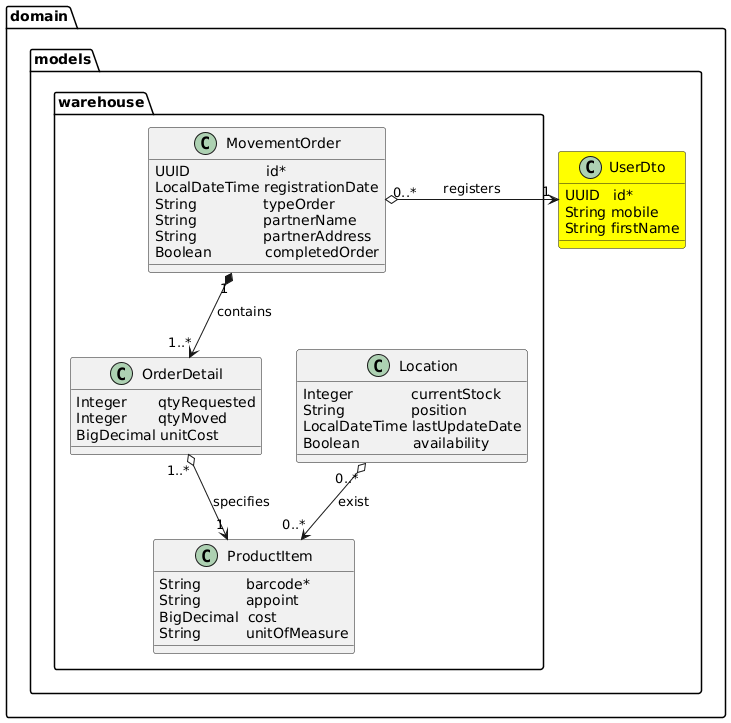
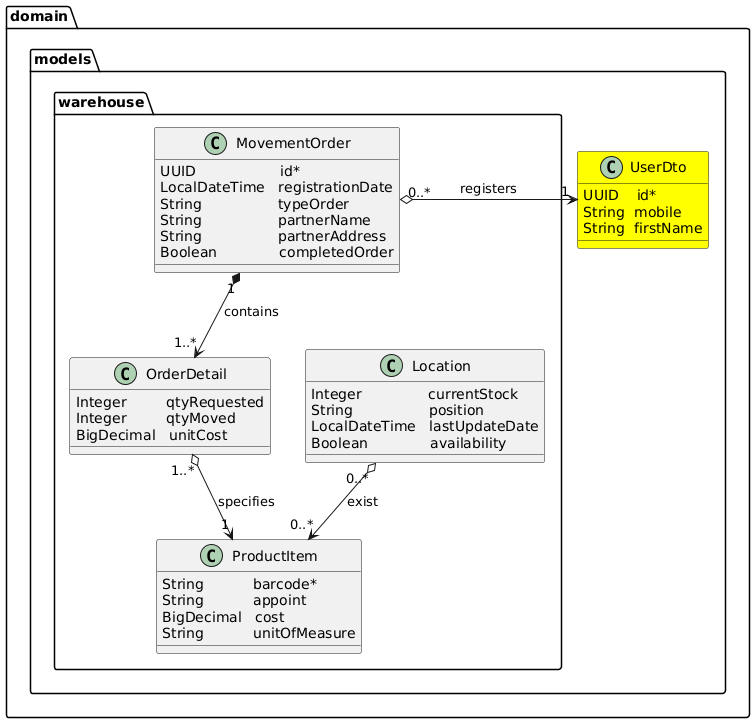
correction to the warehouse model #1246

diff --git a/src/main/java/es/upm/miw/apaw/domain/services/warehouse/MovementOrderService.java b/src/main/java/es/upm/miw/apaw/domain/services/warehouse/MovementOrderService.java
@@ -23,15 +23,13 @@ public class MovementOrderService {
     }
 
     public MovementOrder create(MovementOrder movementOrder) {
-        // Verificar usuario en microservicio externo
-        UUID userId = movementOrder.getUser().getId();
-        this.userRestClient.readById(userId); // validación indirecta (mockeada en tests)
 
-        // Setear datos adicionales
+        UUID userId = movementOrder.getUser().getId();
+        this.userRestClient.readById(userId);
+
         movementOrder.setId(UUID.randomUUID());
         movementOrder.setRegistrationDate(LocalDateTime.now());
 
-        // Guardar en Mongo
         return this.movementOrderPersistence.create(movementOrder);
     }
 

diff --git a/src/test/java/es/upm/miw/apaw/adapters/mongodb/warehouse/daos/MovementOrderRepositoryIT.java b/src/test/java/es/upm/miw/apaw/adapters/mongodb/warehouse/daos/MovementOrderRepositoryIT.java
@@ -1,13 +1,11 @@
 package es.upm.miw.apaw.adapters.mongodb.warehouse.daos;
 
-import es.upm.miw.apaw.adapters.mongodb.warehouse.entities.MovementOrderEntity;
 import es.upm.miw.apaw.adapters.mongodb.warehouse.entities.OrderDetailEntity;
 import org.junit.jupiter.api.Test;
 import org.springframework.beans.factory.annotation.Autowired;
 import org.springframework.boot.test.context.SpringBootTest;
 import org.springframework.test.context.ActiveProfiles;
 
-import java.util.List;
 import java.util.UUID;
 
 import static org.assertj.core.api.Assertions.assertThat;

diff --git a/src/main/java/es/upm/miw/apaw/domain/models/warehouse/ProductItem.java b/src/main/java/es/upm/miw/apaw/domain/models/warehouse/ProductItem.java
@@ -5,7 +5,6 @@ import jakarta.validation.constraints.NotNull;
 import lombok.*;
 
 import java.math.BigDecimal;
-import java.util.UUID;
 
 @Builder
 @Data
@@ -17,7 +16,7 @@ public class ProductItem {
     @NotBlank
     private String barcode;
 
-    private String appoint; //productname
+    private String appoint;
 
     @NotNull
     private BigDecimal cost;

diff --git a/src/test/java/es/upm/miw/apaw/adapters/mongodb/warehouse/persistence/ProductItemPersistenceMongodbIT.java b/src/test/java/es/upm/miw/apaw/adapters/mongodb/warehouse/persistence/ProductItemPersistenceMongodbIT.java
@@ -6,7 +6,6 @@ import org.springframework.beans.factory.annotation.Autowired;
 import org.springframework.boot.test.context.SpringBootTest;
 import org.springframework.test.context.ActiveProfiles;
 
-import java.math.BigDecimal;
 import java.util.Optional;
 
 import static org.assertj.core.api.Assertions.assertThat;

diff --git a/src/main/java/es/upm/miw/apaw/adapters/mongodb/warehouse/entities/ProductItemEntity.java b/src/main/java/es/upm/miw/apaw/adapters/mongodb/warehouse/entities/ProductItemEntity.java
@@ -26,7 +26,7 @@ public class ProductItemEntity {
     @Indexed(unique = true)
     private String      barcode;
 
-    private String      appoint;    //name / description
+    private String      appoint;
     private BigDecimal  cost;
     private String      unitOfMeasure;
 

diff --git a/src/main/java/es/upm/miw/apaw/domain/models/warehouse/MovementOrder.java b/src/main/java/es/upm/miw/apaw/domain/models/warehouse/MovementOrder.java
@@ -24,7 +24,7 @@ public class MovementOrder {
     private LocalDateTime registrationDate;
 
     @NotBlank
-    private String typeOrder;   //    INBOUND , OUTBOUND
+    private String typeOrder;
 
     private String partnerName;
     private String partnerAddress;
